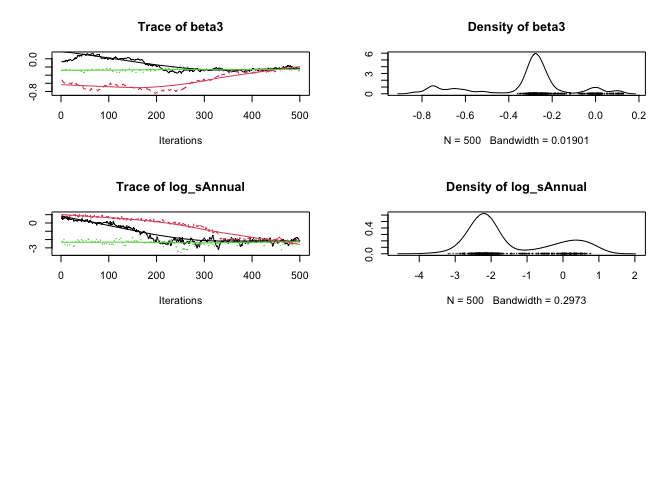
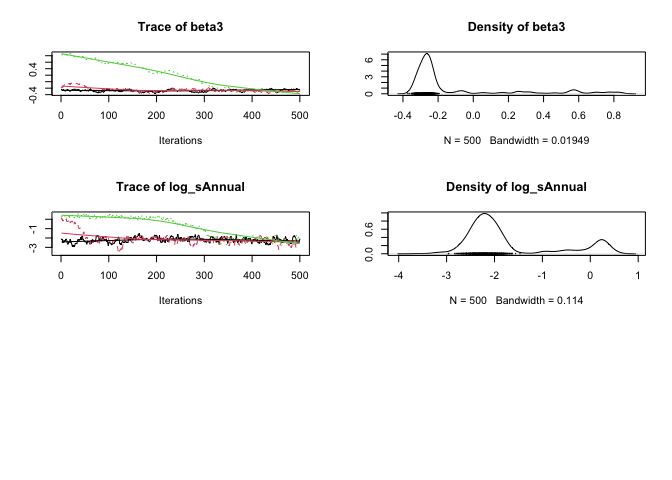
build readme

diff --git a/README.md b/README.md
@@ -74,22 +74,22 @@ analysis <- analyse(model, data = data)
 #> # A tibble: 1 × 8
 #>       n     K nchains niters nthin   ess  rhat converged
 #>   <int> <int>   <int>  <int> <int> <int> <dbl> <lgl>    
-#> 1    40     5       3    500     1    16  13.1 FALSE
+#> 1    40     5       3    500     1     9  5.11 FALSE
 analysis <- reanalyse(analysis)
 #> # A tibble: 1 × 8
 #>       n     K nchains niters nthin   ess  rhat converged
 #>   <int> <int>   <int>  <int> <int> <int> <dbl> <lgl>    
-#> 1    40     5       3    500     2    24  3.06 FALSE
+#> 1    40     5       3    500     2    44  3.47 FALSE
 
 coef(analysis, simplify = TRUE)
 #> # A tibble: 5 × 5
-#>   term        estimate   lower  upper svalue
-#>   <term>         <dbl>   <dbl>  <dbl>  <dbl>
-#> 1 alpha         4.24    1.65   4.36   10.6  
-#> 2 beta1         1.20   -0.0724 1.92    3.08 
-#> 3 beta2        -0.0142 -0.302  0.789   0.388
-#> 4 beta3        -0.281  -0.778  0.0792  2.84 
-#> 5 log_sAnnual  -2.04   -2.91   0.849   1.21
+#>   term        estimate  lower upper svalue
+#>   <term>         <dbl>  <dbl> <dbl>  <dbl>
+#> 1 alpha         4.25    3.05  4.35  10.6  
+#> 2 beta1         1.16   -1.13  1.33   1.55 
+#> 3 beta2        -0.0160 -0.205 0.419  0.520
+#> 4 beta3        -0.254  -0.338 0.768  1.35 
+#> 5 log_sAnnual  -2.10   -2.82  0.366  1.78
 
 plot(analysis)
 ```
@@ -121,7 +121,6 @@ To install from GitHub
     devtools::install_github("poissonconsulting/jmbr")
 
 ## Citation
-
 
     To cite jmbr in publications use:
 
